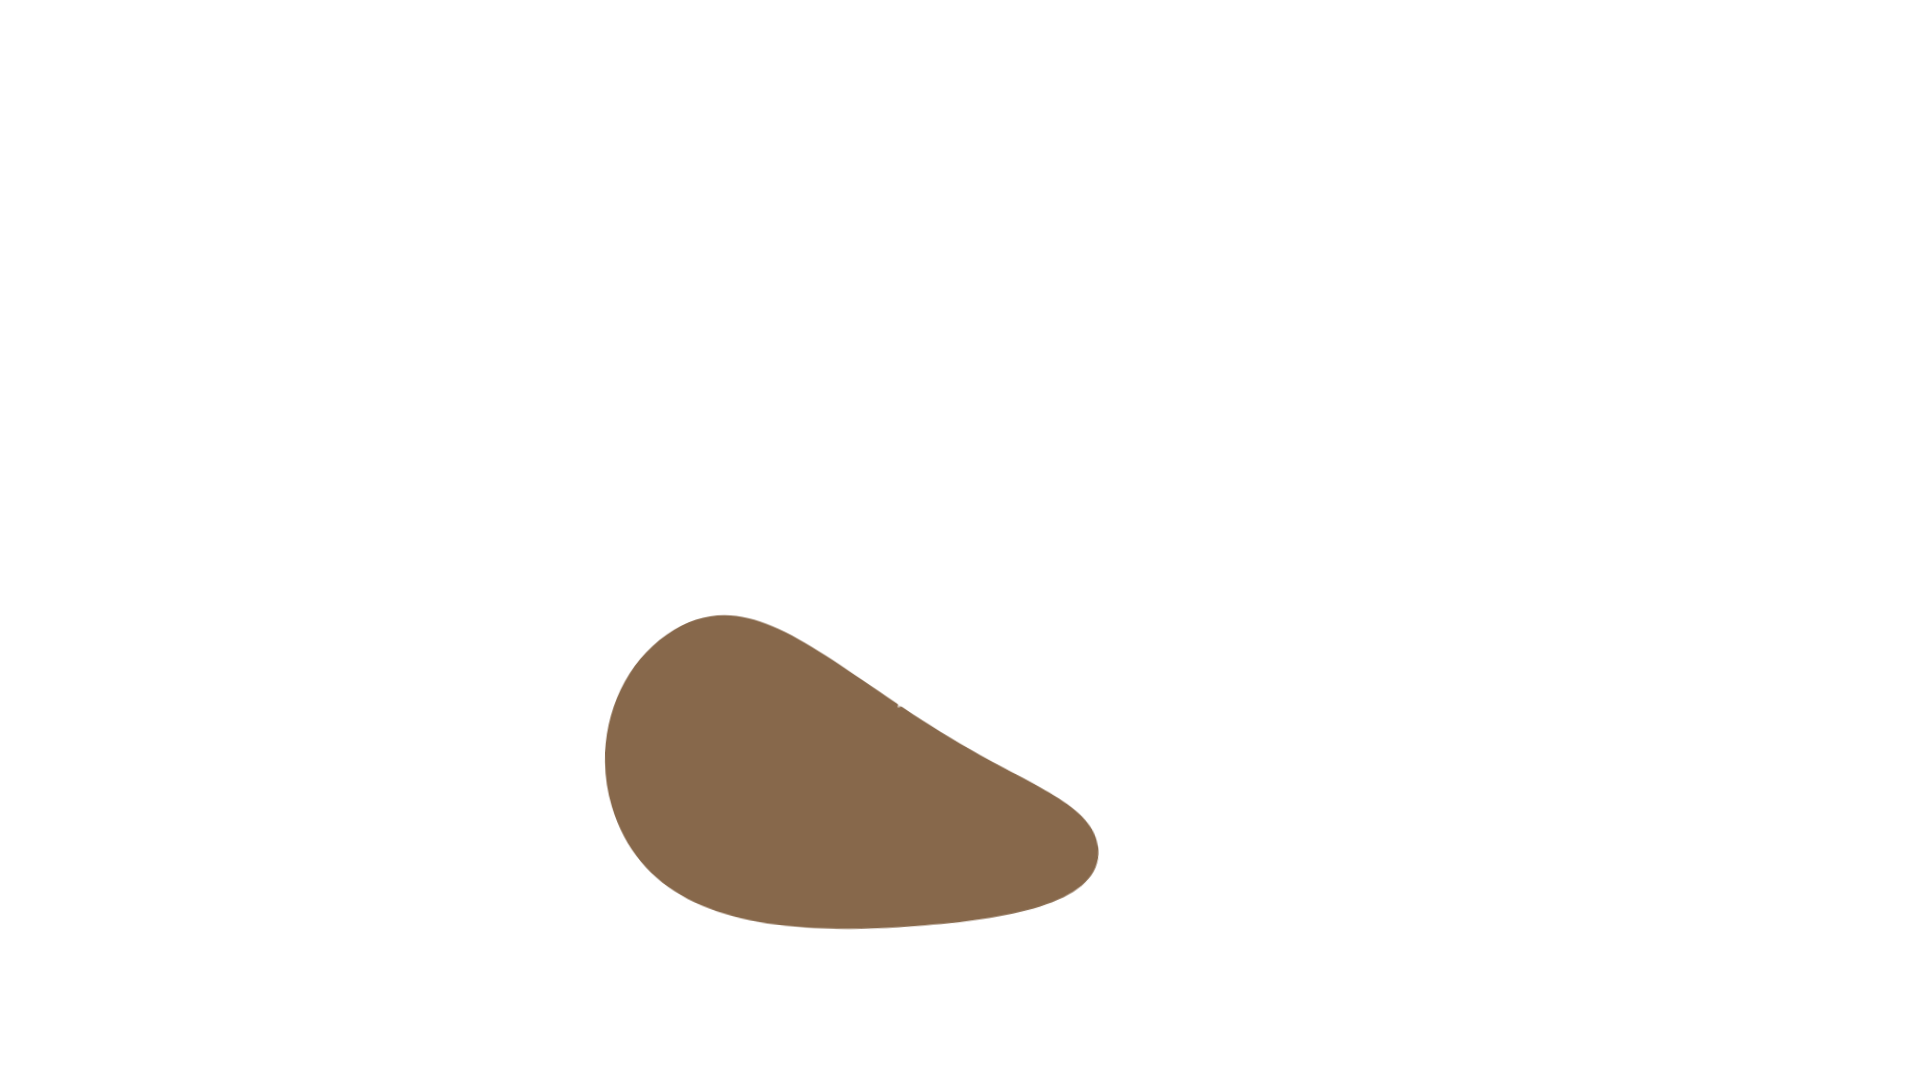
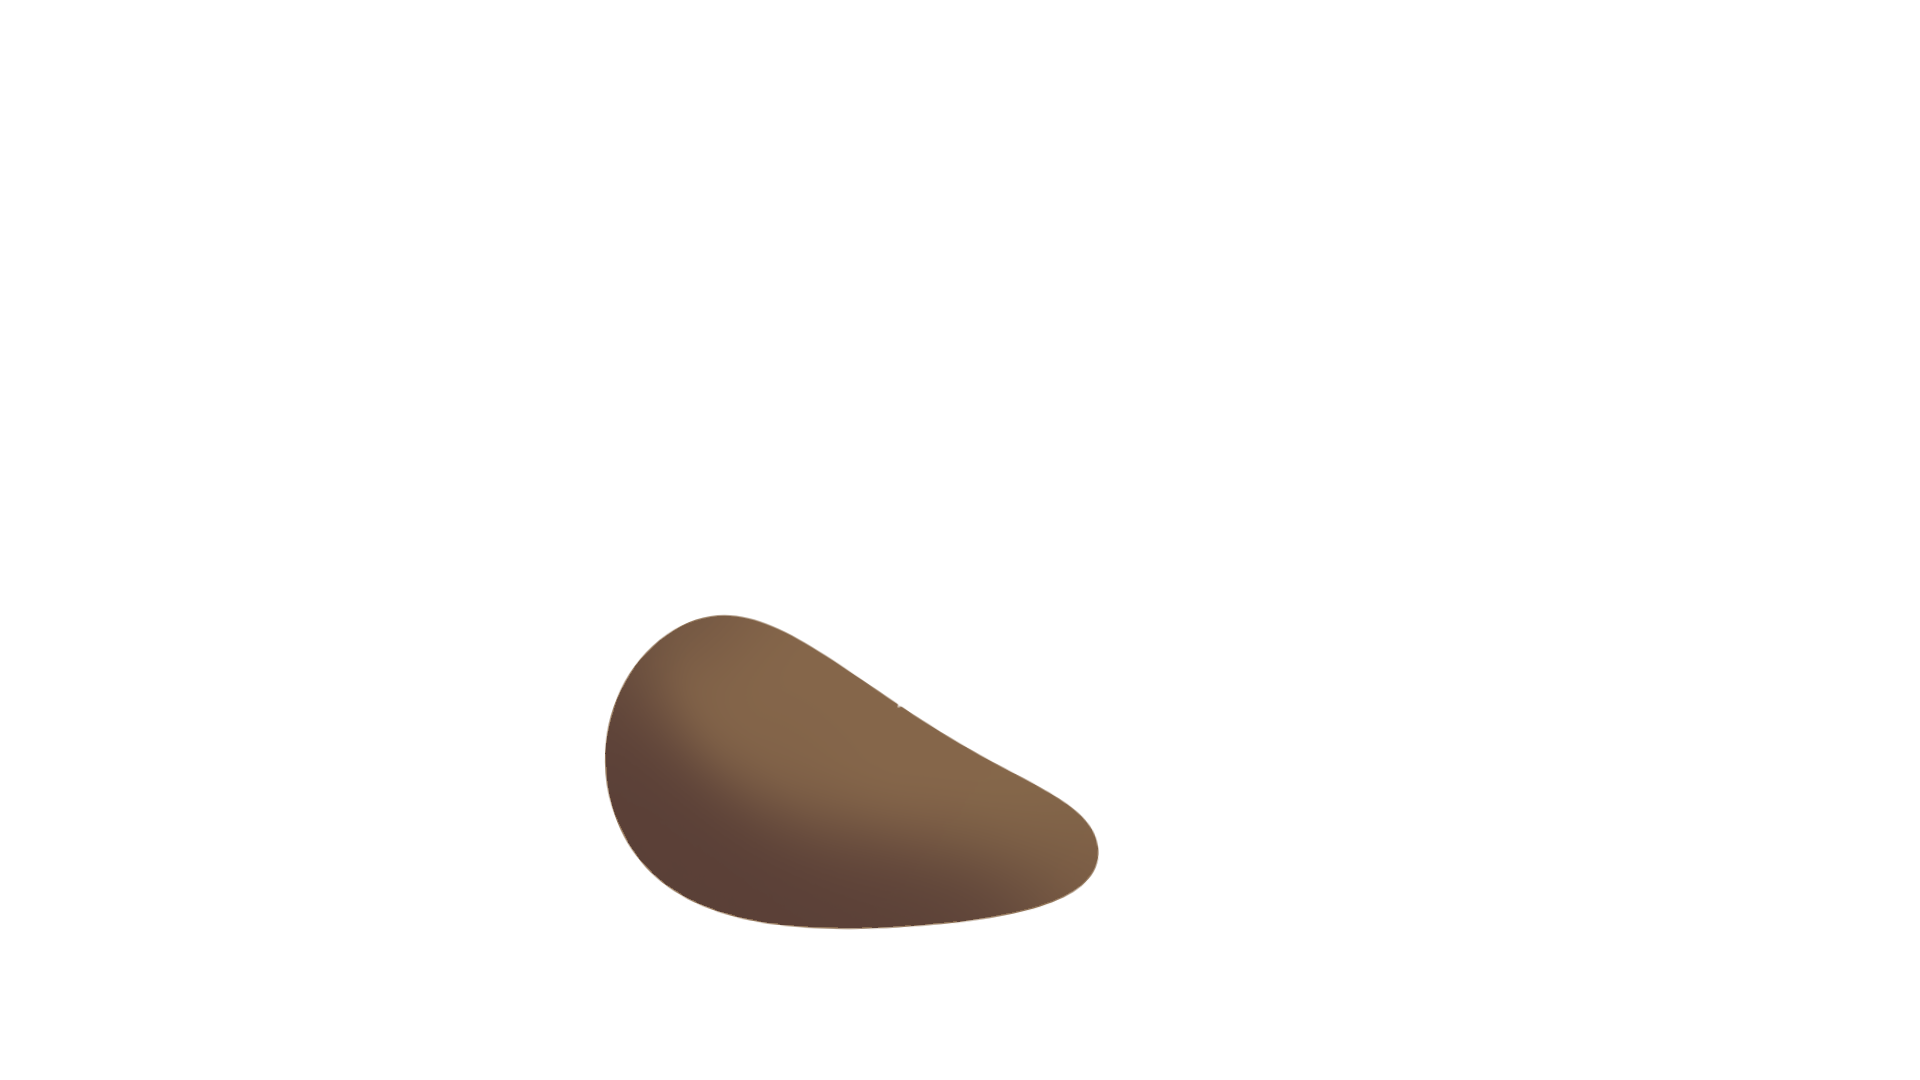
Update color scheme in style.css

Changed region(s): [[0.3125, 0.6111, 0.5625, 0.8861]]

diff --git a/style.css b/style.css
@@ -329,19 +329,19 @@ section{
 }
 
 .neon_div:nth-child(1){
-    background: linear-gradient(0deg,var(--light-txt) 0%, #574f45 100%);
+    background: linear-gradient(0deg,var(--txt-color) 0%, #f5c227 100%);
 }
 
 .neon_div:nth-child(2){
-    background: linear-gradient(0deg, var(--light-txt) 0%, #f5c227 100%);
+    background: linear-gradient(0deg, var(--txt-color) 0%, #c3bea1 100%);
 }
 
 .neon_div:nth-child(3){
-    background: linear-gradient(0deg, var(--light-txt) 0%, #6d8a13 100%);
+    background: linear-gradient(0deg, var(--txt-color) 0%, #6d8a13 100%);
 }
 
 .neon_div:nth-child(4){
-    background: linear-gradient(0deg, var(--light-txt) 0%, #c3bea1 100%);
+    background: linear-gradient(0deg, var(--txt-color) 0%, #574f45 100%);
 }
 
 .neon_div span{
@@ -359,7 +359,7 @@ section{
     width: 20px;
     height: 20px;
     z-index: -1;
-    background: var(--color);
+    /* background: var(--color); */
     border-radius: 50%;
 }
 
@@ -590,7 +590,7 @@ section{
 }
 
 .card:hover{
-    background: linear-gradient(135deg,#dad6c4, rgba(14, 14, 14, 0));
+    background: linear-gradient(135deg,#fdd251, rgba(14, 14, 14, 0));
 }
 
 .card .quotesImg{
@@ -631,7 +631,7 @@ section{
 }
 
 .card-content span{
-    color: #574f45;
+    color: #6d8a13;
     font-size: 14px !important;
     margin-bottom: 15px;
 }
@@ -711,7 +711,7 @@ section{
     position: absolute;
     inset: 2px;
     border: 2px solid var(--main-bg);
-    background: #dfddd3;
+    background: #ffffff;
     z-index: -1;
 }
 
@@ -760,7 +760,7 @@ section{
     left: 0;
     pointer-events: none;
     font-size: 1em;
-    color: rgb(255, 255, 255);
+    color: #574f45;
     transition: .5s;
     font-family: 'Poppins';
 }
